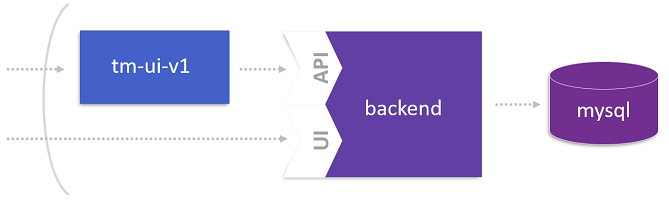
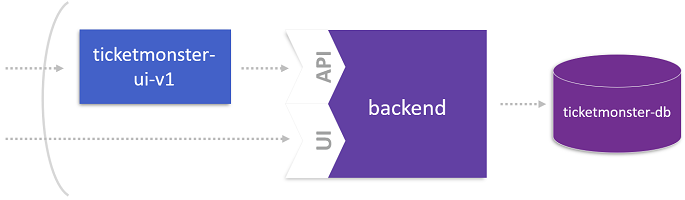
Update of lab 2.

diff --git a/workshop/03_Monolith_to_Microservices/2_Extract_UI_From_Monolith/README.md b/workshop/03_Monolith_to_Microservices/2_Extract_UI_From_Monolith/README.md
@@ -1,6 +1,6 @@
 # Extract the User Interface from the Monolith
 
-In this lab ...
+To start breaking up the monolith, a best practice is extracting the user interface from TicketMonster since this helps to decouple the client facing part from the business logic. So, this lab launches the first microservice to seperate the user interface from the rest of TicketMonster shown below.
 
 ![tm-ui-v1](../assets/extract_ui.png)
 
